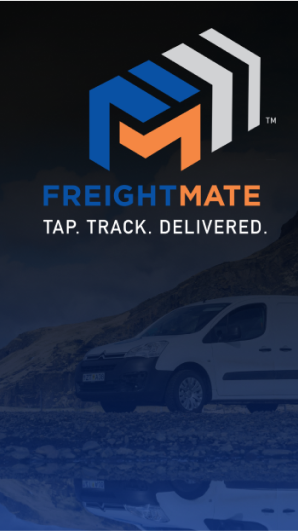
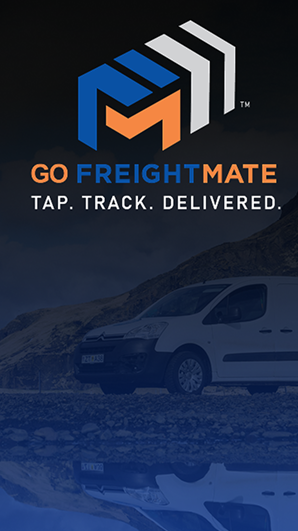
Changes

diff --git a/resources/js/components/HomePage.vue b/resources/js/components/HomePage.vue
@@ -6,7 +6,7 @@
             
             <nav class="navbar navbar-expand-lg">
                 <div class="container-fluid">
-                  <a class="navbar-brand fw-bold" href="/"><img src="../../images/logo.png" alt="brand-logo"></a>
+                  <a class="navbar-brand fw-bold" href="/"><img src="../../images/Go_FreightMate_logo.png" alt="brand-logo"></a>
                   <button class="navbar-toggler" type="button" data-bs-toggle="collapse" data-bs-target="#navbarSupportedContent" aria-controls="navbarSupportedContent" aria-expanded="false" aria-label="Toggle navigation">
                     <span class="navbar-toggler-icon"></span>
                   </button>
@@ -56,7 +56,7 @@
                     <div class="col-sm-6">
                         <figure class="m-0">
                             <img
-                                src="../../images/hero-7-img.png"
+                                src="../../images/hero-with-newlogo.png"
                                 alt="hero-image"
                                 class="w-75"
                             />
@@ -158,7 +158,7 @@
                     <div class="col-sm-6">
                         <figure class="logisticsFigure text-center m-0">
                             <img
-                                src="../../images/smater01img.png"
+                                src="../../images/smart-with-newlogo.png"
                                 alt="logistics-image"
                                 class="w-75"
                             />
@@ -247,7 +247,7 @@
                     <div class="col-sm-6">
                         <figure class="partnerFigure text-center m-0">
                             <img
-                                src="../../images/partner-sec01img.png"
+                                src="../../images/partner-with-newlogo.png"
                                 alt="partner-image"
                                 class="w-45"
                             />

diff --git a/resources/js/components/RegistrationDriver.vue b/resources/js/components/RegistrationDriver.vue
@@ -243,12 +243,20 @@
                 <div class="form-group policyfield">
                     <input
                         type="checkbox"
+                        v-model="formData.receive_offers"
+                        id="receive_offers"
+                        class="form-input"
+                    /> <span> I would like to receive offers and news</span>
+                </div>
+                <div class="form-group policyfield">
+                    <input
+                        type="checkbox"
                         v-model="formData.privacy_policy"
                         id="privacy_policy"
                         class="form-input"
-                    /> <span>I agree to receive marketing messaging from Twilio at the phone number provided above. I understand I will receive 2 messages a month, data rates may apply, reply STOP to opt out</span>
+                    /> <span> I accept the <a href="https://friigemate.test/terms-of-service">Terms of Service</a> & <a href="https://friigemate.test/privacy-policy">Privacy Policy</a> <br>
+                        By providing your phone number you agree to receive informational text messages from FreightMate. Consent is not a condition of purchase. Messages Frequency will vary. Msg & data rates may apply. Reply HELP for help or STOP to cancel.</span>
                 </div>
-                <span class="center-policy"><a href="https://friigemate.test/privacy-policy">Privacy Policy</a> | <a href="https://friigemate.test/terms-of-service">Terms of Service</a></span>
                 <button type="submit" class="form-button">Register</button>
             </form>
         </div>

diff --git a/resources/js/components/RegistrationShipper.vue b/resources/js/components/RegistrationShipper.vue
@@ -118,12 +118,20 @@
                 <div class="form-group policyfield">
                     <input
                         type="checkbox"
+                        v-model="formData.receive_offers"
+                        id="receive_offers"
+                        class="form-input"
+                    /> <span> I would like to receive offers and news</span>
+                </div>
+                <div class="form-group policyfield">
+                    <input
+                        type="checkbox"
                         v-model="formData.privacy_policy"
                         id="privacy_policy"
                         class="form-input"
-                    /> <span>I agree to receive marketing messaging from Twilio at the phone number provided above. I understand I will receive 2 messages a month, data rates may apply, reply STOP to opt out</span>
+                    /> <span> I accept the <a href="https://friigemate.test/terms-of-service">Terms of Service</a> & <a href="https://friigemate.test/privacy-policy">Privacy Policy</a> <br>
+                        By providing your phone number you agree to receive informational text messages from FreightMate. Consent is not a condition of purchase. Messages Frequency will vary. Msg & data rates may apply. Reply HELP for help or STOP to cancel.</span>
                 </div>
-                <span class="center-policy"><a href="https://friigemate.test/privacy-policy">Privacy Policy</a> | <a href="https://friigemate.test/terms-of-service">Terms of Service</a></span>
                 <button type="submit" class="submit-btn">Register</button>
             </form>
         </div>

diff --git a/resources/js/components/TermsOfService.vue b/resources/js/components/TermsOfService.vue
@@ -6,7 +6,7 @@
             
             <nav class="navbar navbar-expand-lg">
                 <div class="container-fluid">
-                  <a class="navbar-brand fw-bold" href="/"><img src="../../images/logo.png" alt="brand-logo"></a>
+                  <a class="navbar-brand fw-bold" href="/"><img src="../../images/Go_FreightMate_logo.png" alt="brand-logo"></a>
                   <button class="navbar-toggler" type="button" data-bs-toggle="collapse" data-bs-target="#navbarSupportedContent" aria-controls="navbarSupportedContent" aria-expanded="false" aria-label="Toggle navigation">
                     <span class="navbar-toggler-icon"></span>
                   </button>

diff --git a/resources/js/components/privacyPolicy.vue b/resources/js/components/privacyPolicy.vue
@@ -6,7 +6,7 @@
             
             <nav class="navbar navbar-expand-lg">
                 <div class="container-fluid">
-                  <a class="navbar-brand fw-bold" href="/"><img src="../../images/logo.png" alt="brand-logo"></a>
+                  <a class="navbar-brand fw-bold" href="/"><img src="../../images/Go_FreightMate_logo.png" alt="brand-logo"></a>
                   <button class="navbar-toggler" type="button" data-bs-toggle="collapse" data-bs-target="#navbarSupportedContent" aria-controls="navbarSupportedContent" aria-expanded="false" aria-label="Toggle navigation">
                     <span class="navbar-toggler-icon"></span>
                   </button>

diff --git a/resources/js/components/RegistrationForm.vue b/resources/js/components/RegistrationForm.vue
@@ -1,7 +1,7 @@
 <template>
     <div class="mainRegister p-5 text-white">
         <div class="panelLogo">
-            <img src="../../images/logo.png" alt="brand-logo" />
+            <img src="../../images/Go_FreightMate_logo.png" alt="brand-logo" />
         </div>
         <div class="tab-buttons flex justify-center mb-5 space-x-4">
             <button
